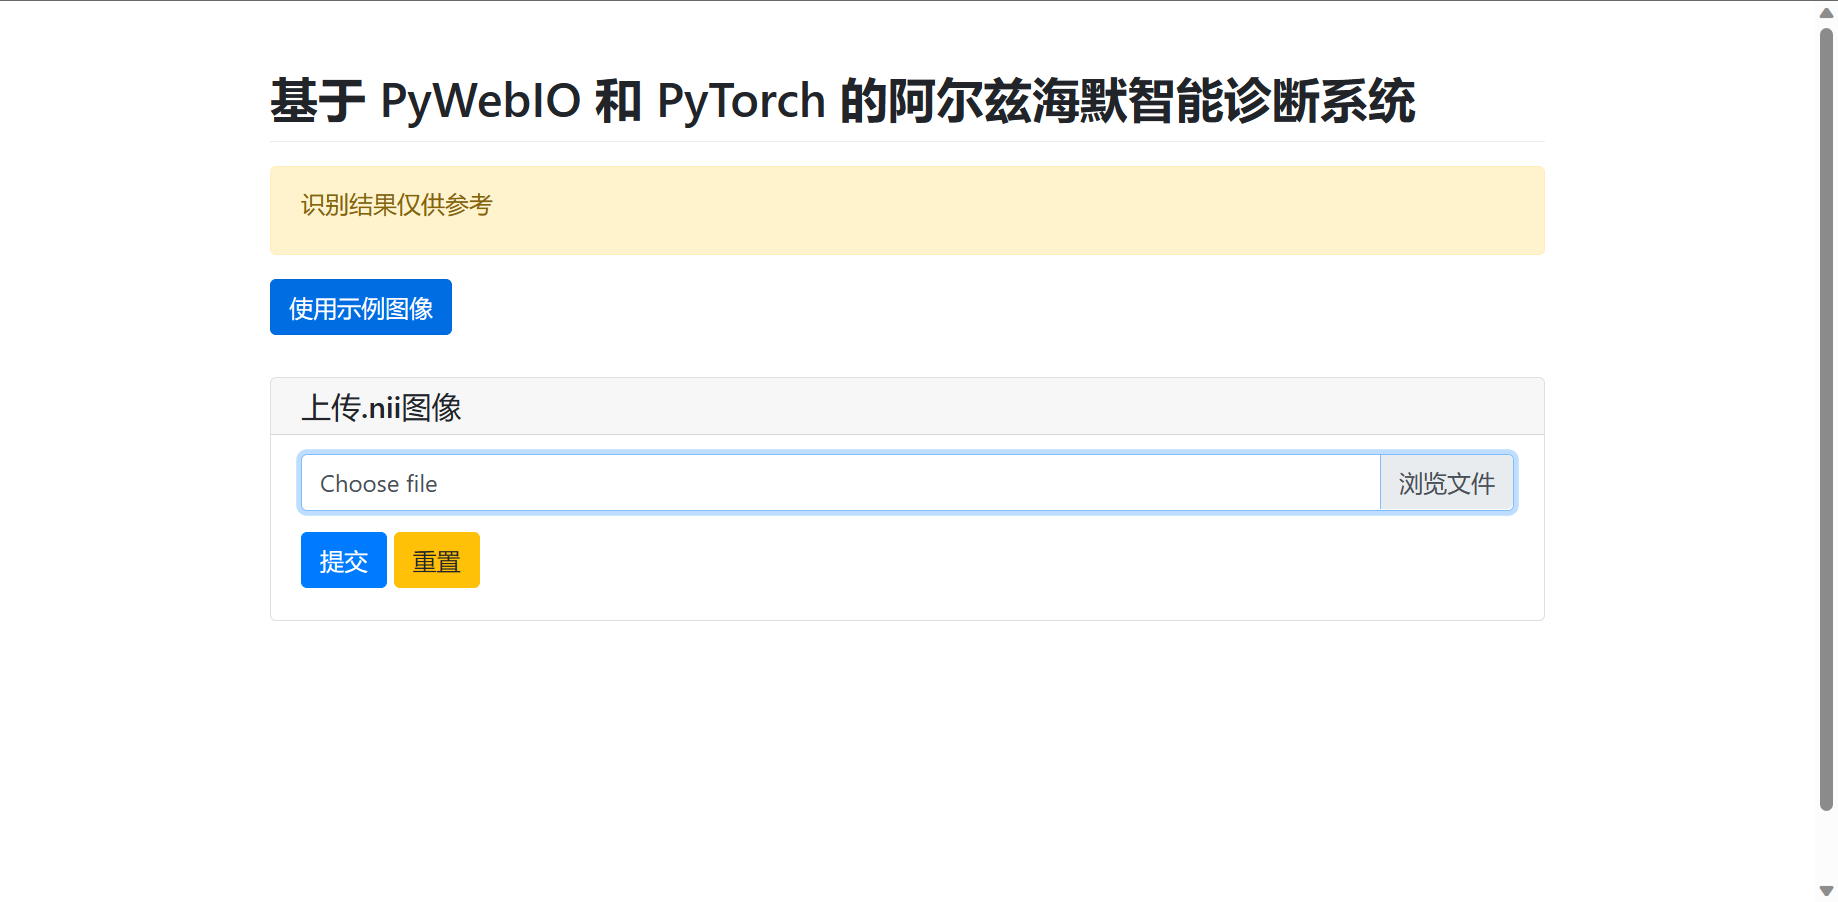
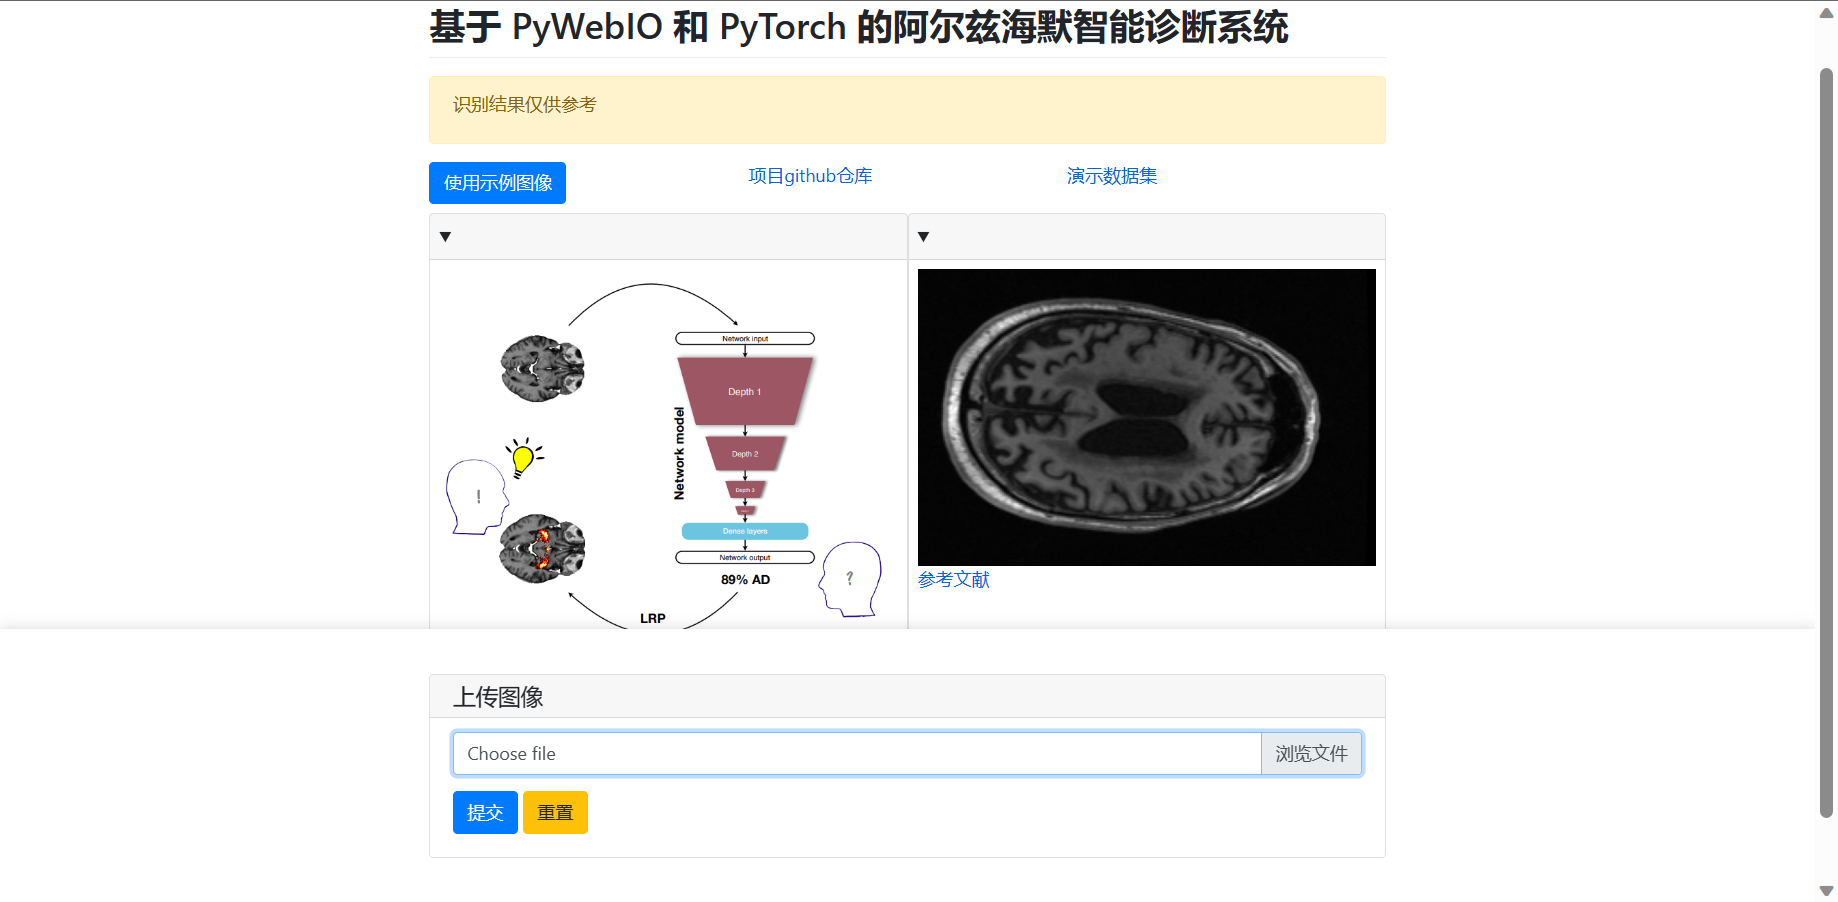
添加首页图片

diff --git a/zlzheimer-diagnostic-system.py b/zlzheimer-diagnostic-system.py
@@ -55,9 +55,18 @@ def zlzheimer_diagnostic_system(is_demo=False):
             pywebio.output.put_link(name="项目github仓库", url="https://github.com/bytesc/Image-Recognition-system"),
             pywebio.output.put_link(name="演示数据集", url="https://github.com/bytesc/lqdata"),
         ])
+        train_img = PIL.Image.open("./img/net_graph.png")
+        brain_img = PIL.Image.open("./img/brain_demo1.png")
+        pywebio.output.put_row(
+            [pywebio.output.put_collapse("", [pywebio.output.put_image(train_img)], open=True),
+             pywebio.output.put_collapse("", [pywebio.output.put_image(brain_img),
+                                              pywebio.output.put_link(name=" 参考文献", url="https://github.com/moboehle/Pytorch-LRP"),], open=True),
+             ]
+        )
               # input_img = pywebio.input.file_upload(label="上传图片", accept=[".jpg", ".png", ".jpeg"])
         nii_path = "./demodata/demo.nii"
         if not is_demo:
+            act = pywebio.input.actions(' ', ['上传图像'], )
             input_img = pywebio.input.file_upload(label="上传图像", accept=[".nii"], required=True)
             pywebio.output.popup("加载中", [
                 pywebio.output.put_loading(),

diff --git a/README.md b/README.md
@@ -20,6 +20,8 @@
   ![image](./readme_img/2.png)
 - 模型输出图表
   ![image](./readme_img/3.png)
+- 查看上传的图像
+  ![image](./readme_img/3.1.png)
 
 ## 如何使用
 
